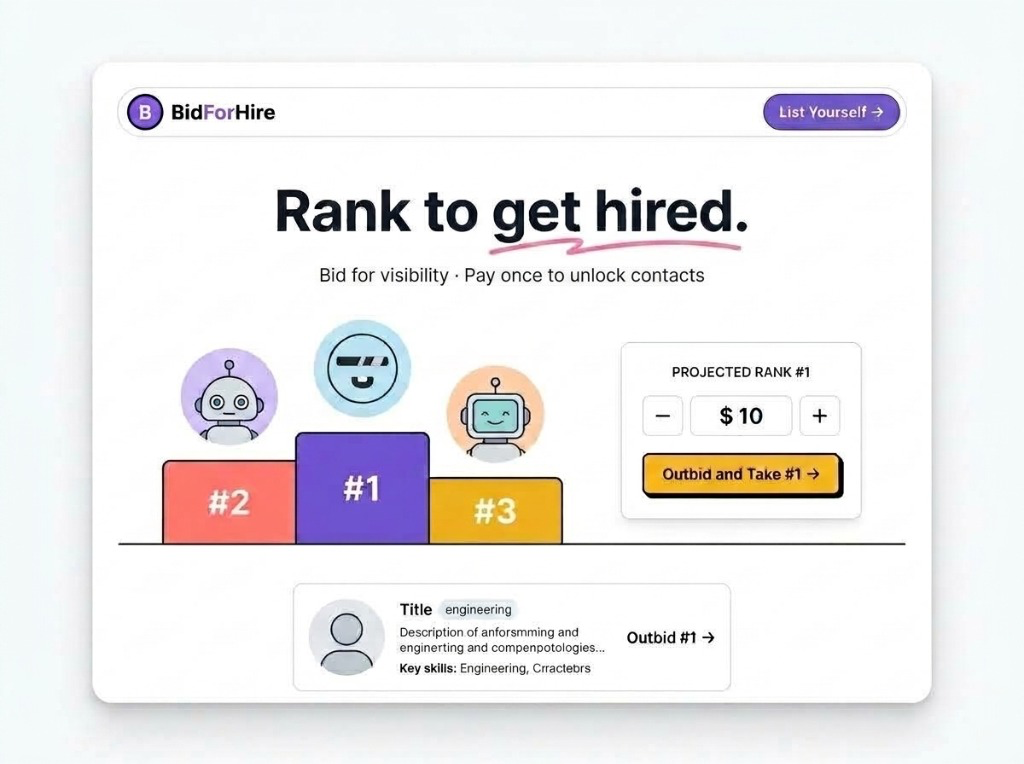
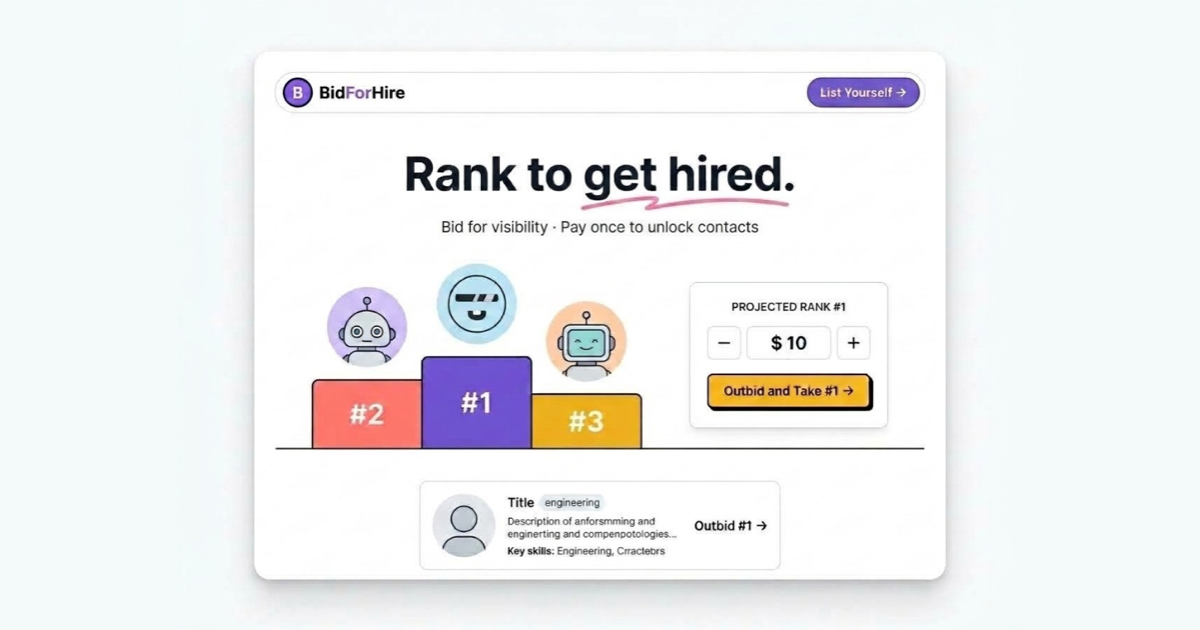
metadata fix

diff --git a/src/app/layout.tsx b/src/app/layout.tsx
@@ -24,8 +24,8 @@ export const metadata: Metadata = {
     images: [
       {
         url: '/og-image.png',
-        width: 1024,
-        height: 764,
+        width: 1200,
+        height: 630,
         alt: 'BidForHire - Claim a rank on Hiring Leaderboard',
       },
     ],
